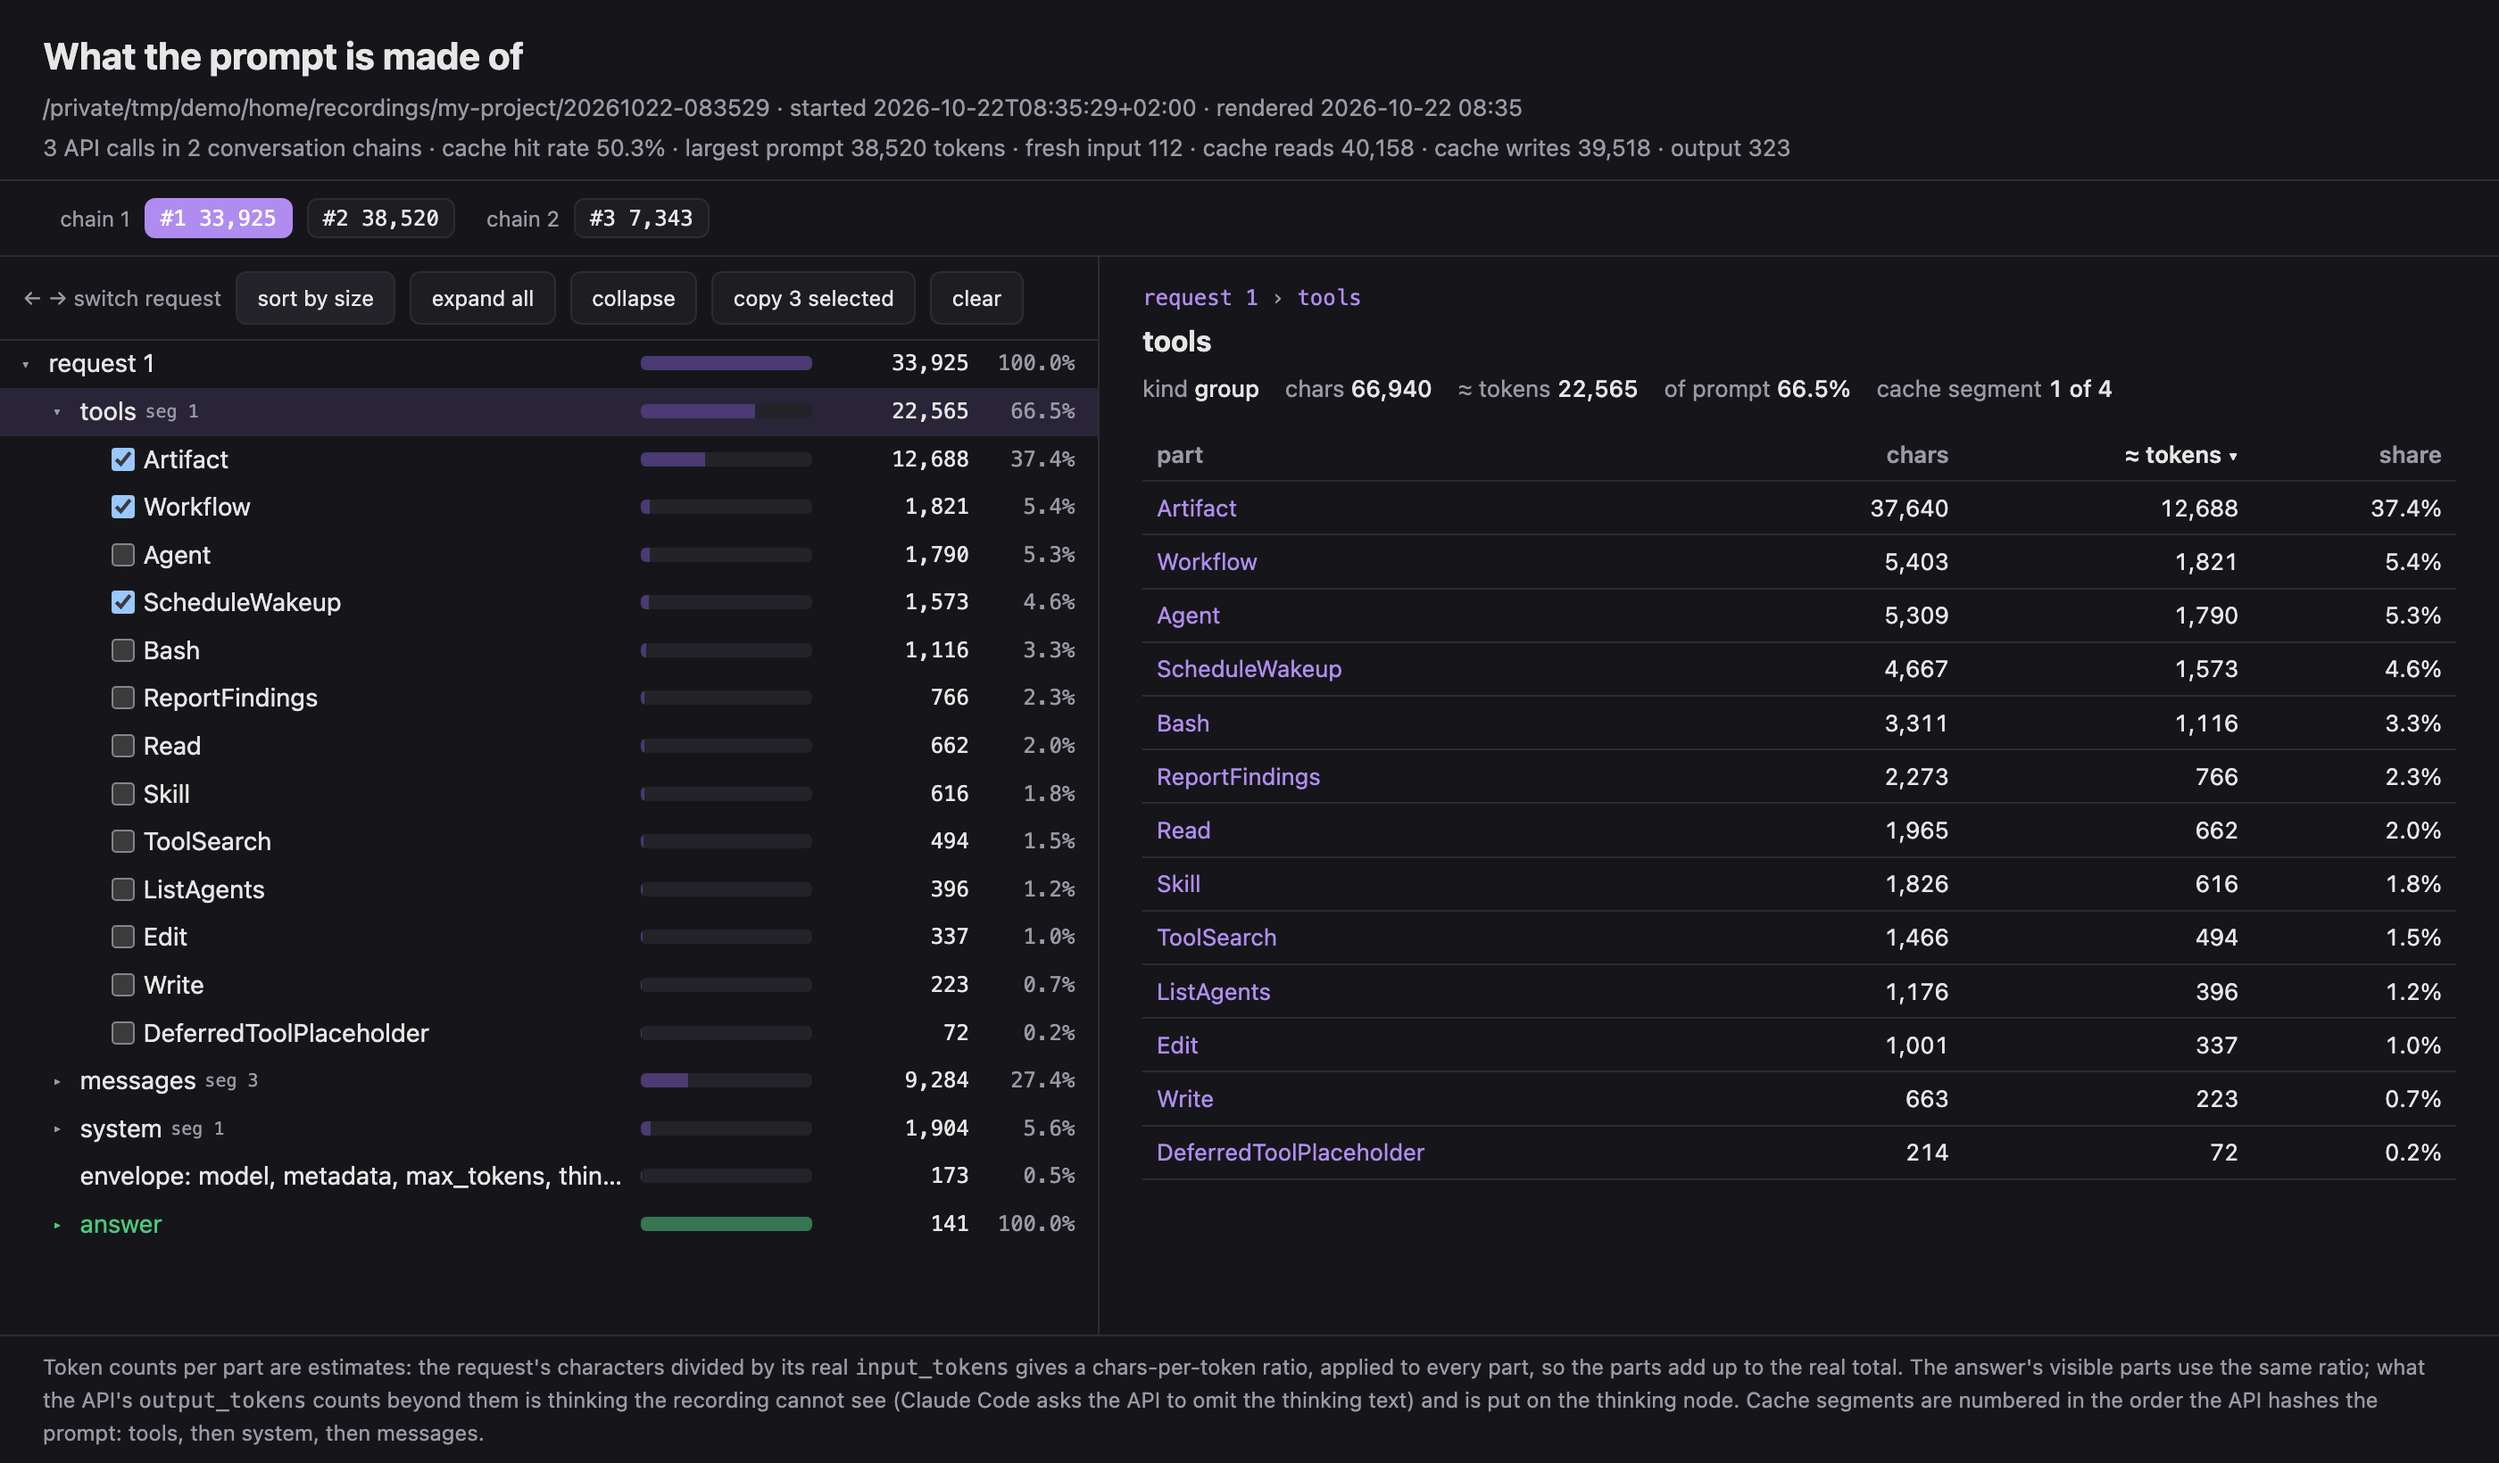
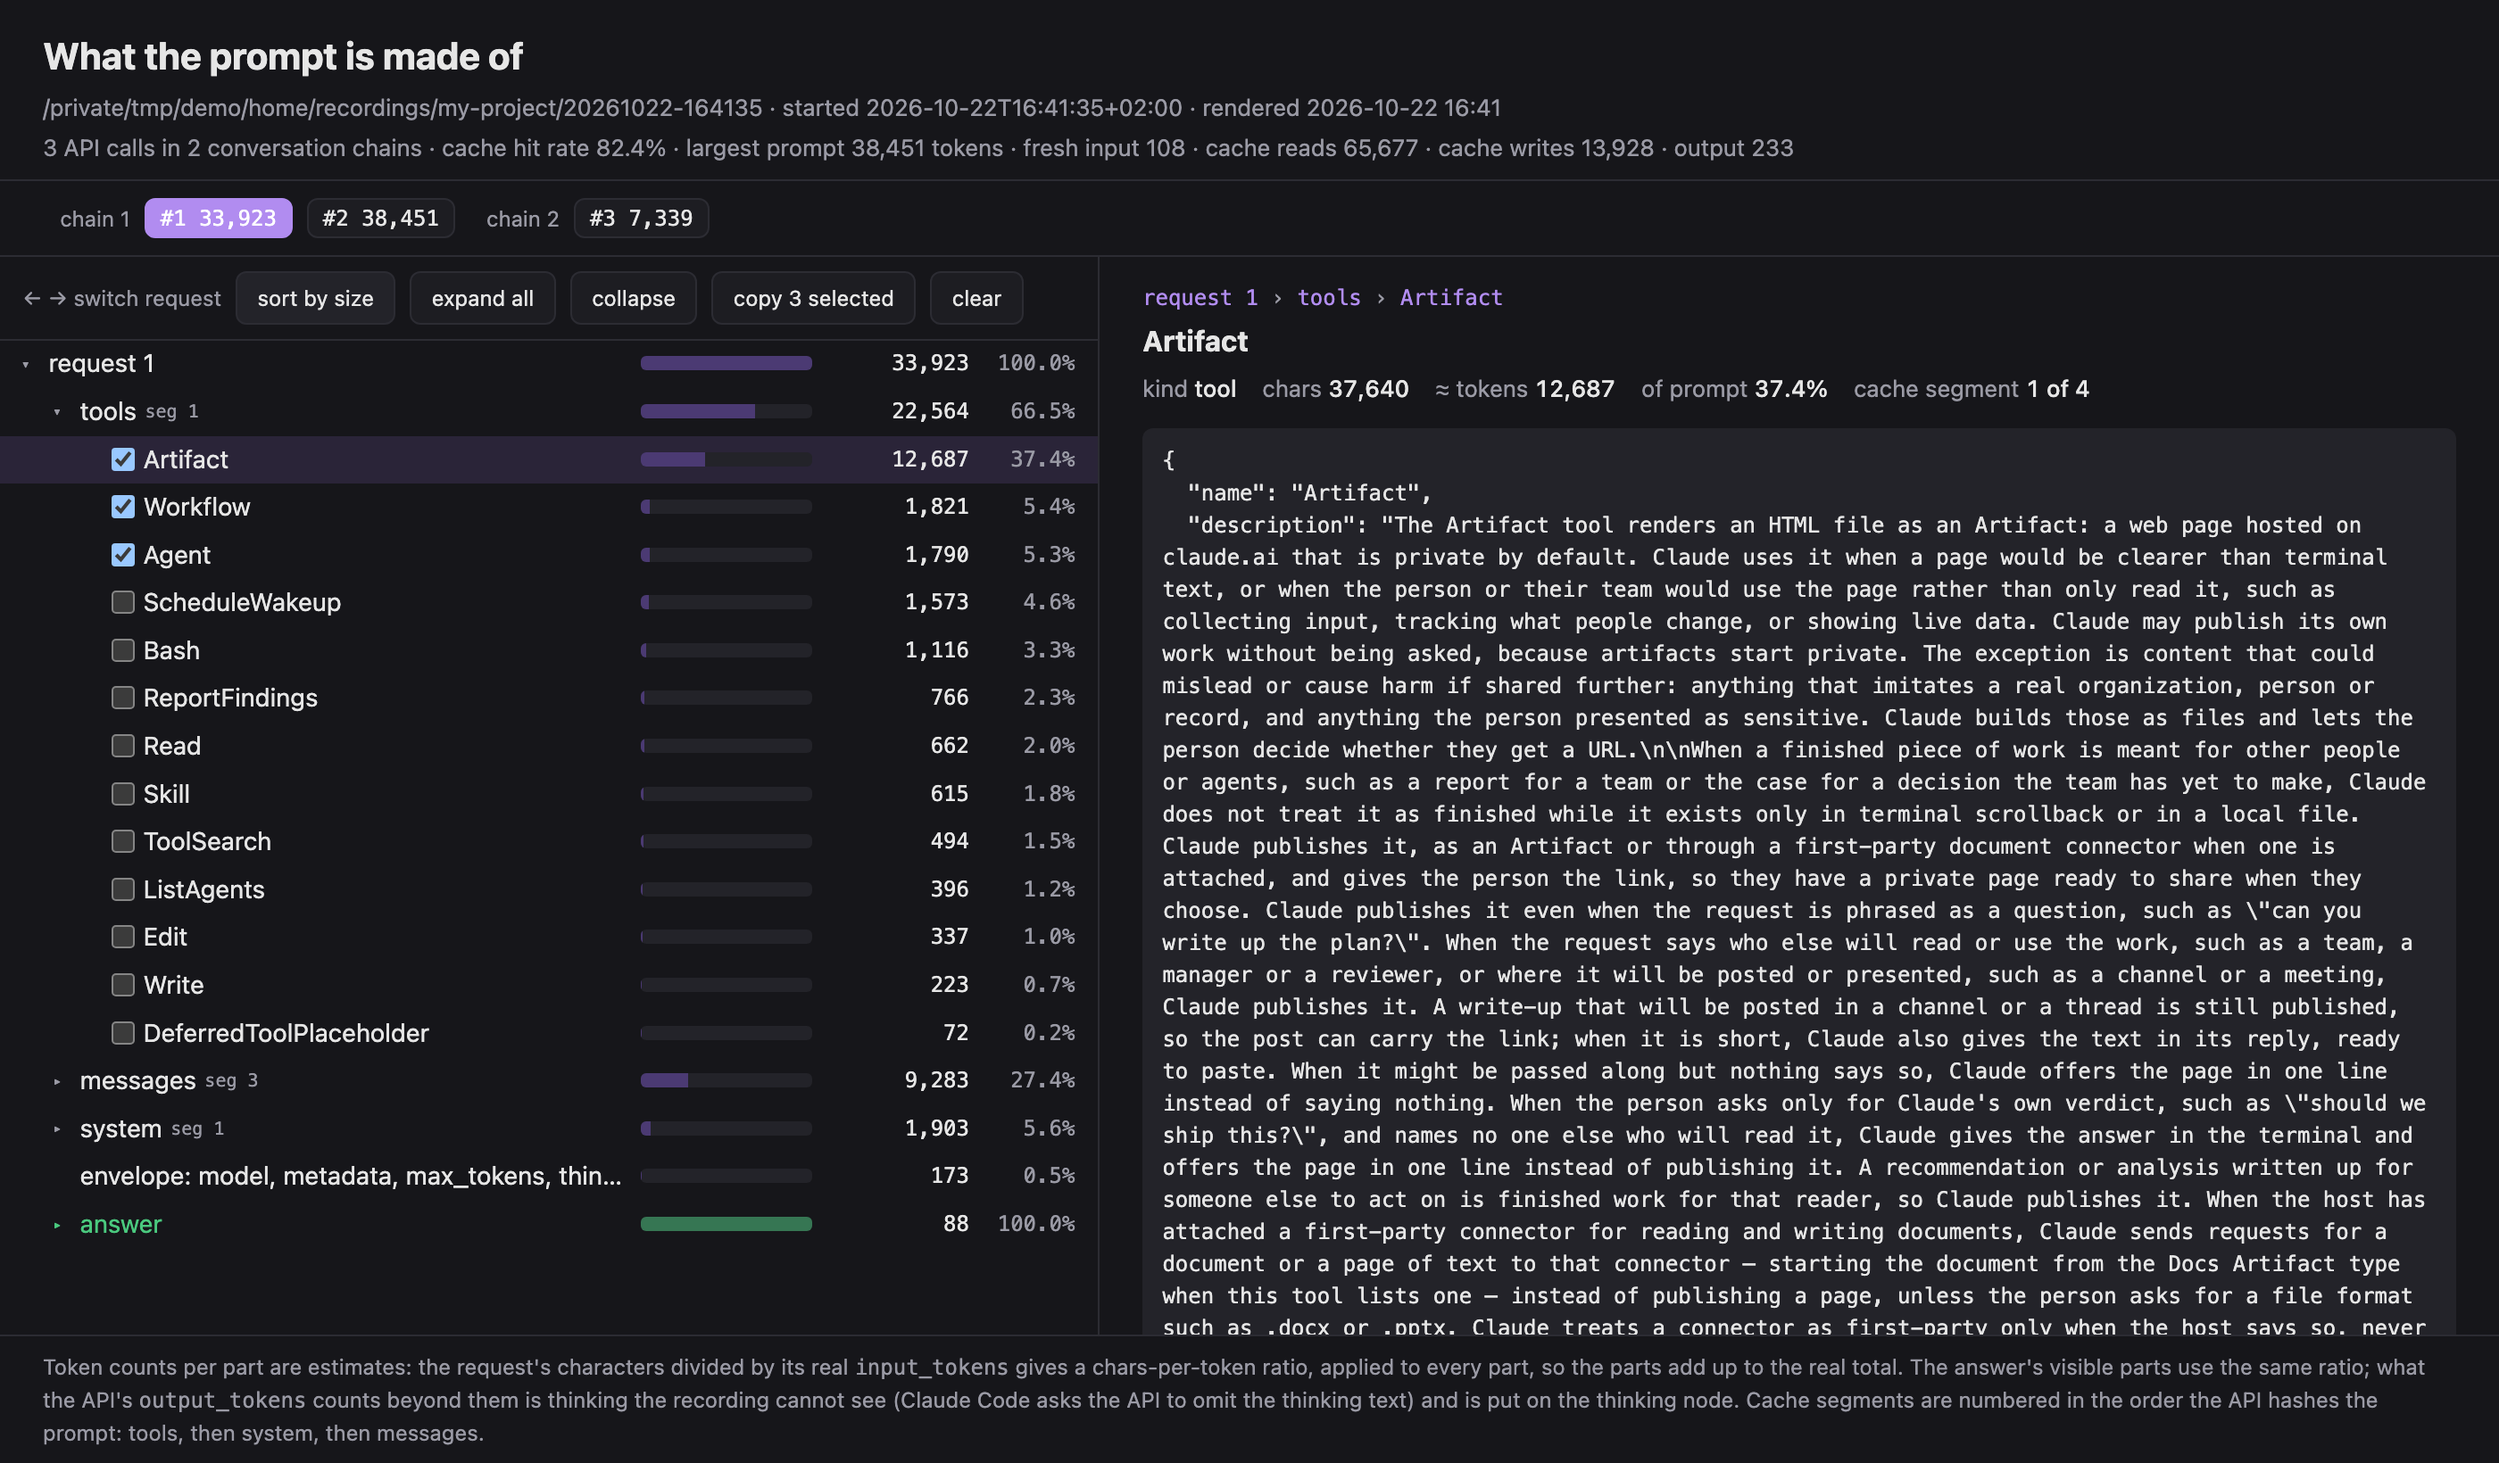
Show the Artifact tool's text in the README screenshot
The screenshot skill now selects the Artifact tool, or the largest tool if
there is none, so the right pane shows what a tool costs and says.

diff --git a/.claude/skills/update-screenshot/shot.py b/.claude/skills/update-screenshot/shot.py
@@ -1,5 +1,6 @@
 """Take docs/screenshot.png from a recording: the first request's tools, sorted by size, with the
-three largest ticked. Usage: python3 shot.py RUN_DIR OUT.png
+three largest ticked and the Artifact tool selected, so the right pane shows its text.
+Usage: python3 shot.py RUN_DIR OUT.png
 """
 
 from __future__ import annotations
@@ -29,12 +30,13 @@ def find_chrome() -> str:
     raise SystemExit("shot: no Chrome or Chromium found")
 
 
-def largest_tools(run_dir: Path, count: int = 3) -> list[str]:
+def tools_by_size(run_dir: Path) -> list[str]:
+    """The tool names of the first request that has tools, largest first."""
     for path in sorted(run_dir.glob("0*.json")):
         tools = (json.loads(path.read_text(encoding="utf-8")).get("request_json") or {}).get("tools") or []
         if tools:
             tools = sorted(tools, key=lambda tool: len(json.dumps(tool)), reverse=True)
-            return [tool.get("name", "") for tool in tools[:count]]
+            return [tool.get("name", "") for tool in tools]
     return []
 
 
@@ -42,11 +44,13 @@ def main() -> int:
     run_dir, out = Path(sys.argv[1]), Path(sys.argv[2]).resolve()
     html = (run_dir / "context_profiler.html").read_text(encoding="utf-8")
     title = re.search(r"<title>(.*?)</title>", html).group(1)
+    tools = tools_by_size(run_dir)
+    shown = "Artifact" if "Artifact" in tools else tools[0]
     # The page restores its view from sessionStorage; seed it before the page script runs.
     state = {
-        "req": 0, "atEnd": False, "path": "tools", "sortBySize": True,
+        "req": 0, "atEnd": False, "path": f"tools/{shown}", "sortBySize": True,
         "open": {"request": True, "tools": True},
-        "picked": {f"tool: {name}": True for name in largest_tools(run_dir)},
+        "picked": {f"tool: {name}": True for name in tools[:3]},
     }
     seed = "<script>sessionStorage.setItem(%s, %s);</script>" % (
         json.dumps("profile:" + title), json.dumps(json.dumps(state)))

diff --git a/.claude/skills/update-screenshot/SKILL.md b/.claude/skills/update-screenshot/SKILL.md
@@ -17,14 +17,16 @@ The page's header prints the recording's path, so the demo runs in a neutral fol
      -p "What does this directory contain? Answer in one line." < /dev/null
    ```
 
-2. Take the screenshot. It opens the first request's tools, sorted by size, with the three largest
-   ticked:
+2. Take the screenshot. It opens the first request's tools, sorted by size, ticks the three largest,
+   and selects the Artifact tool (the largest tool, if there is none), so the right pane shows its
+   text:
 
    ```bash
    python3 $REPO/.claude/skills/update-screenshot/shot.py /tmp/demo/home/recordings/my-project/* \
      $REPO/docs/screenshot.png
    ```
 
-3. Look at `docs/screenshot.png`. Done when it shows the tools tree with three ticked items and
-   **copy 3 selected**, and nothing personal: no email, no home path, no user name.
+3. Look at `docs/screenshot.png`. Done when it shows the tools tree with three ticked items,
+   **copy 3 selected**, the Artifact tool's text in the right pane, and nothing personal: no email,
+   no home path, no user name.
 4. Delete `/tmp/demo`, and show the screenshot to the owner before committing it.
